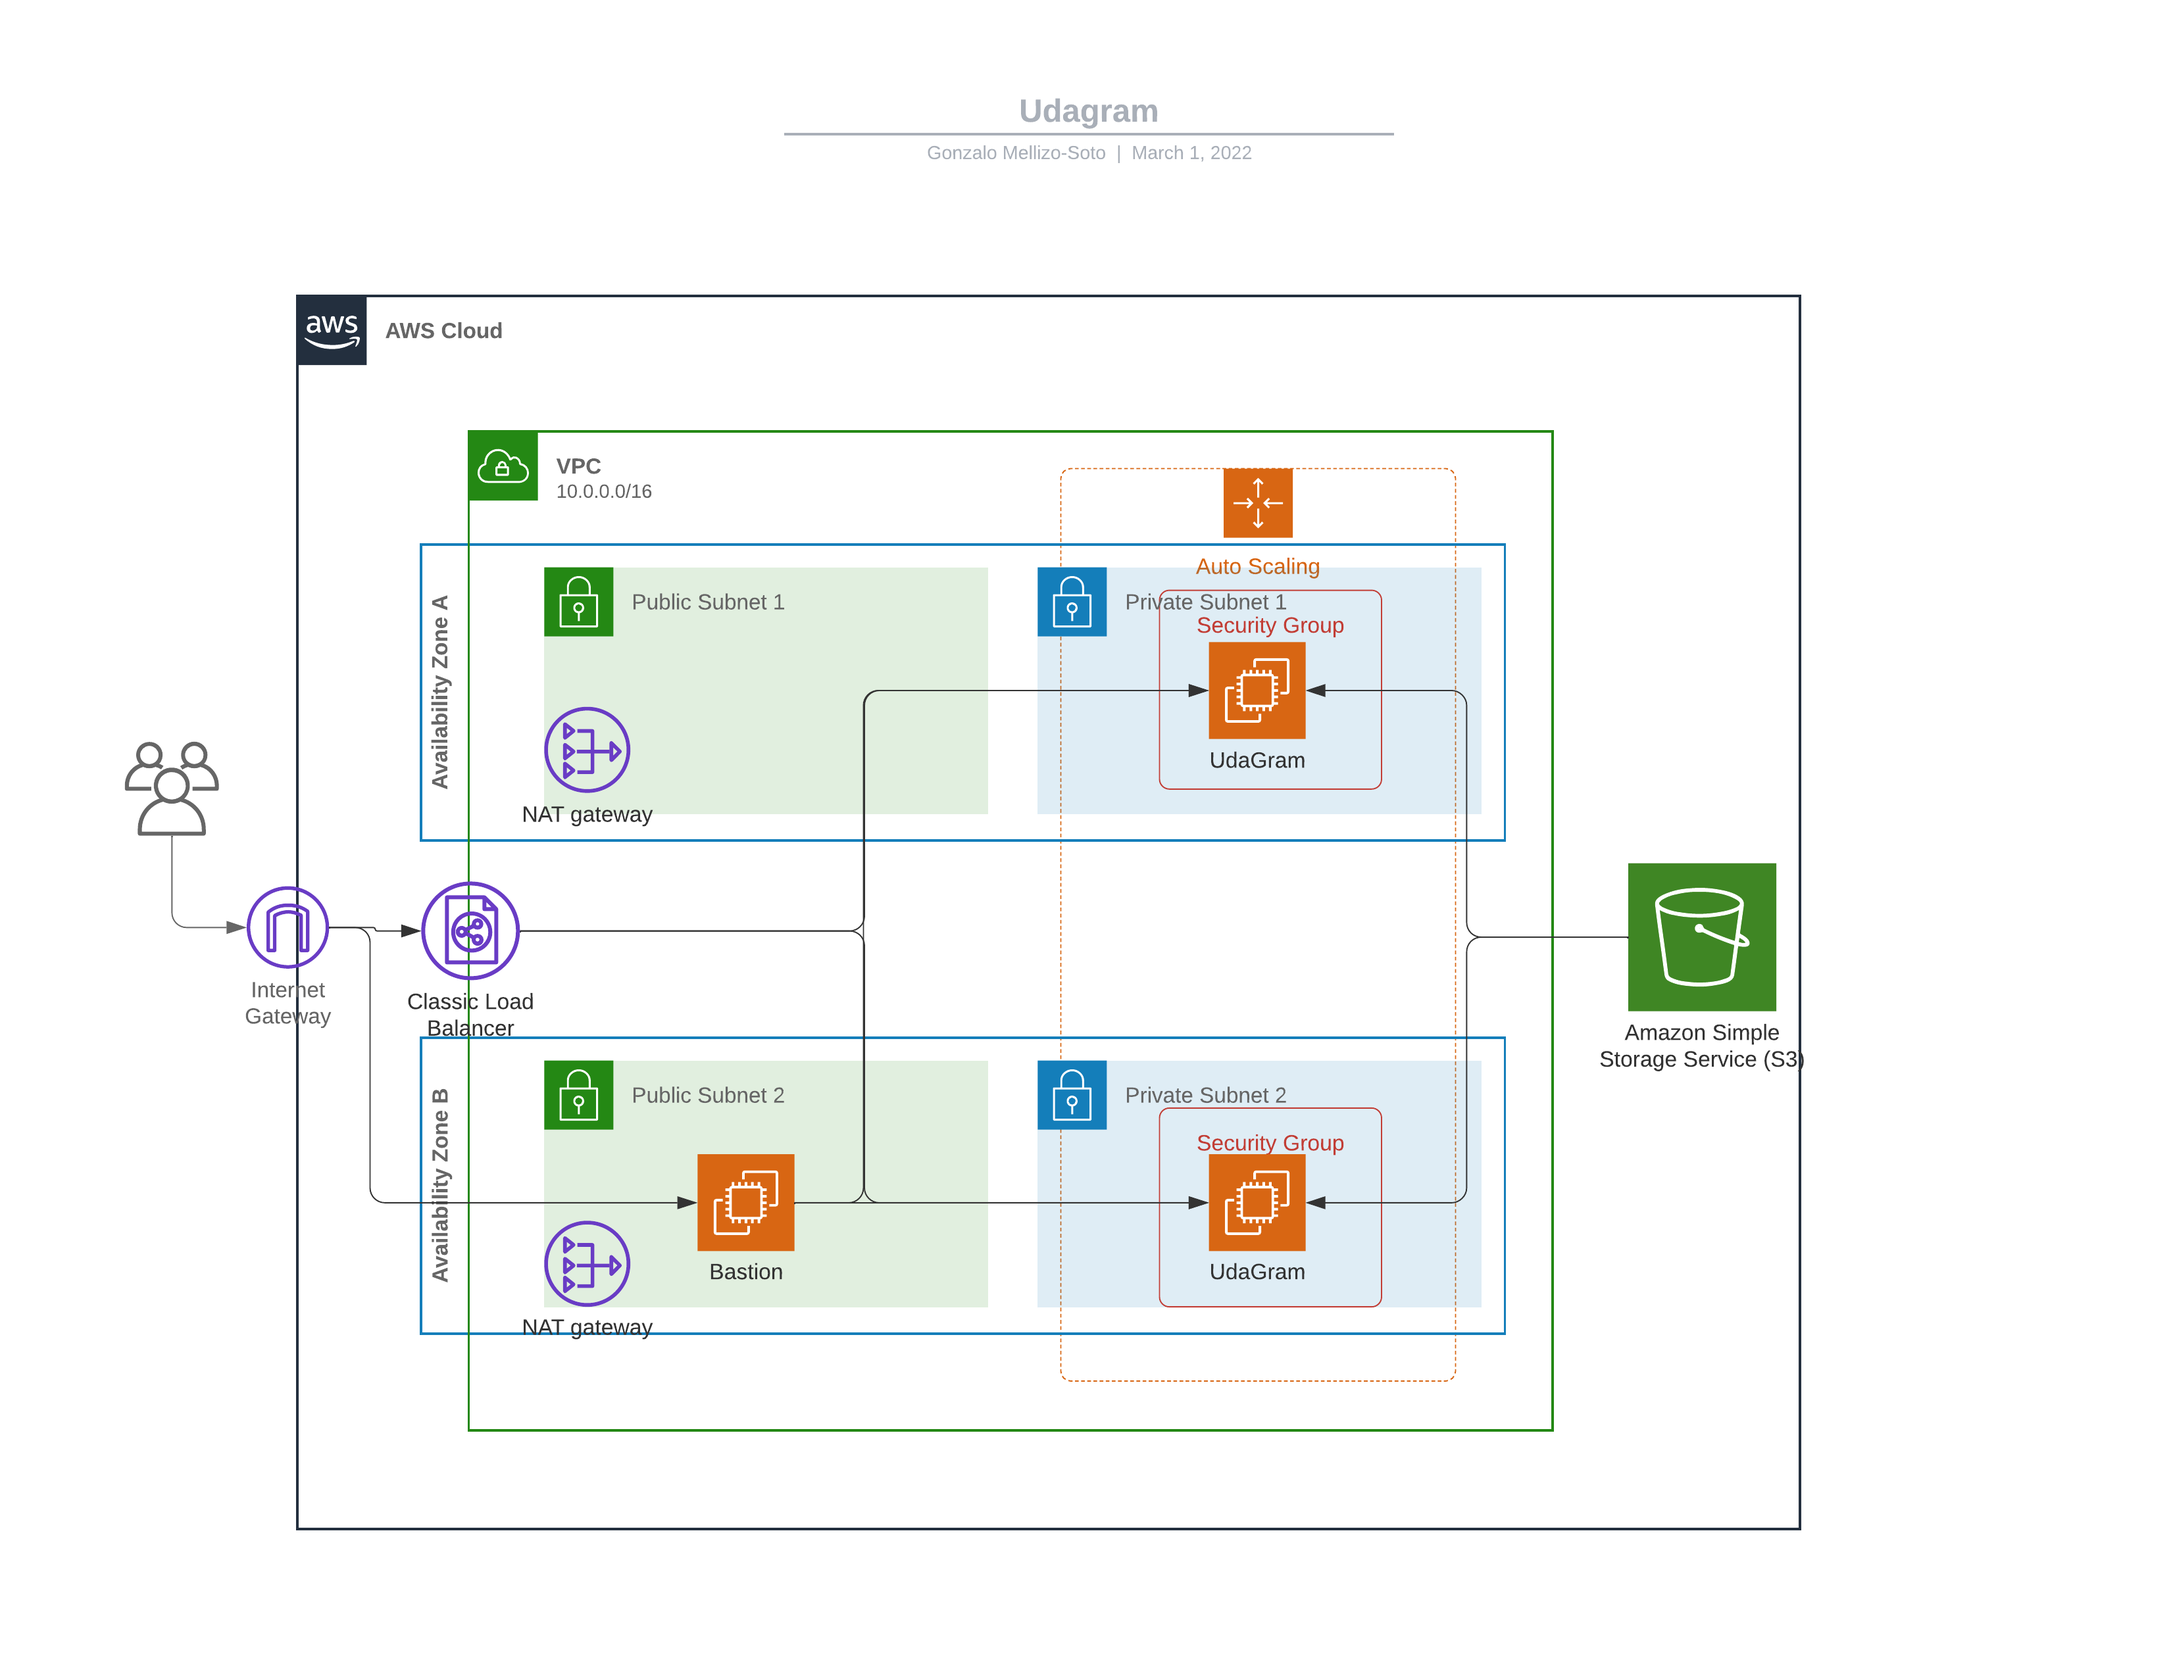
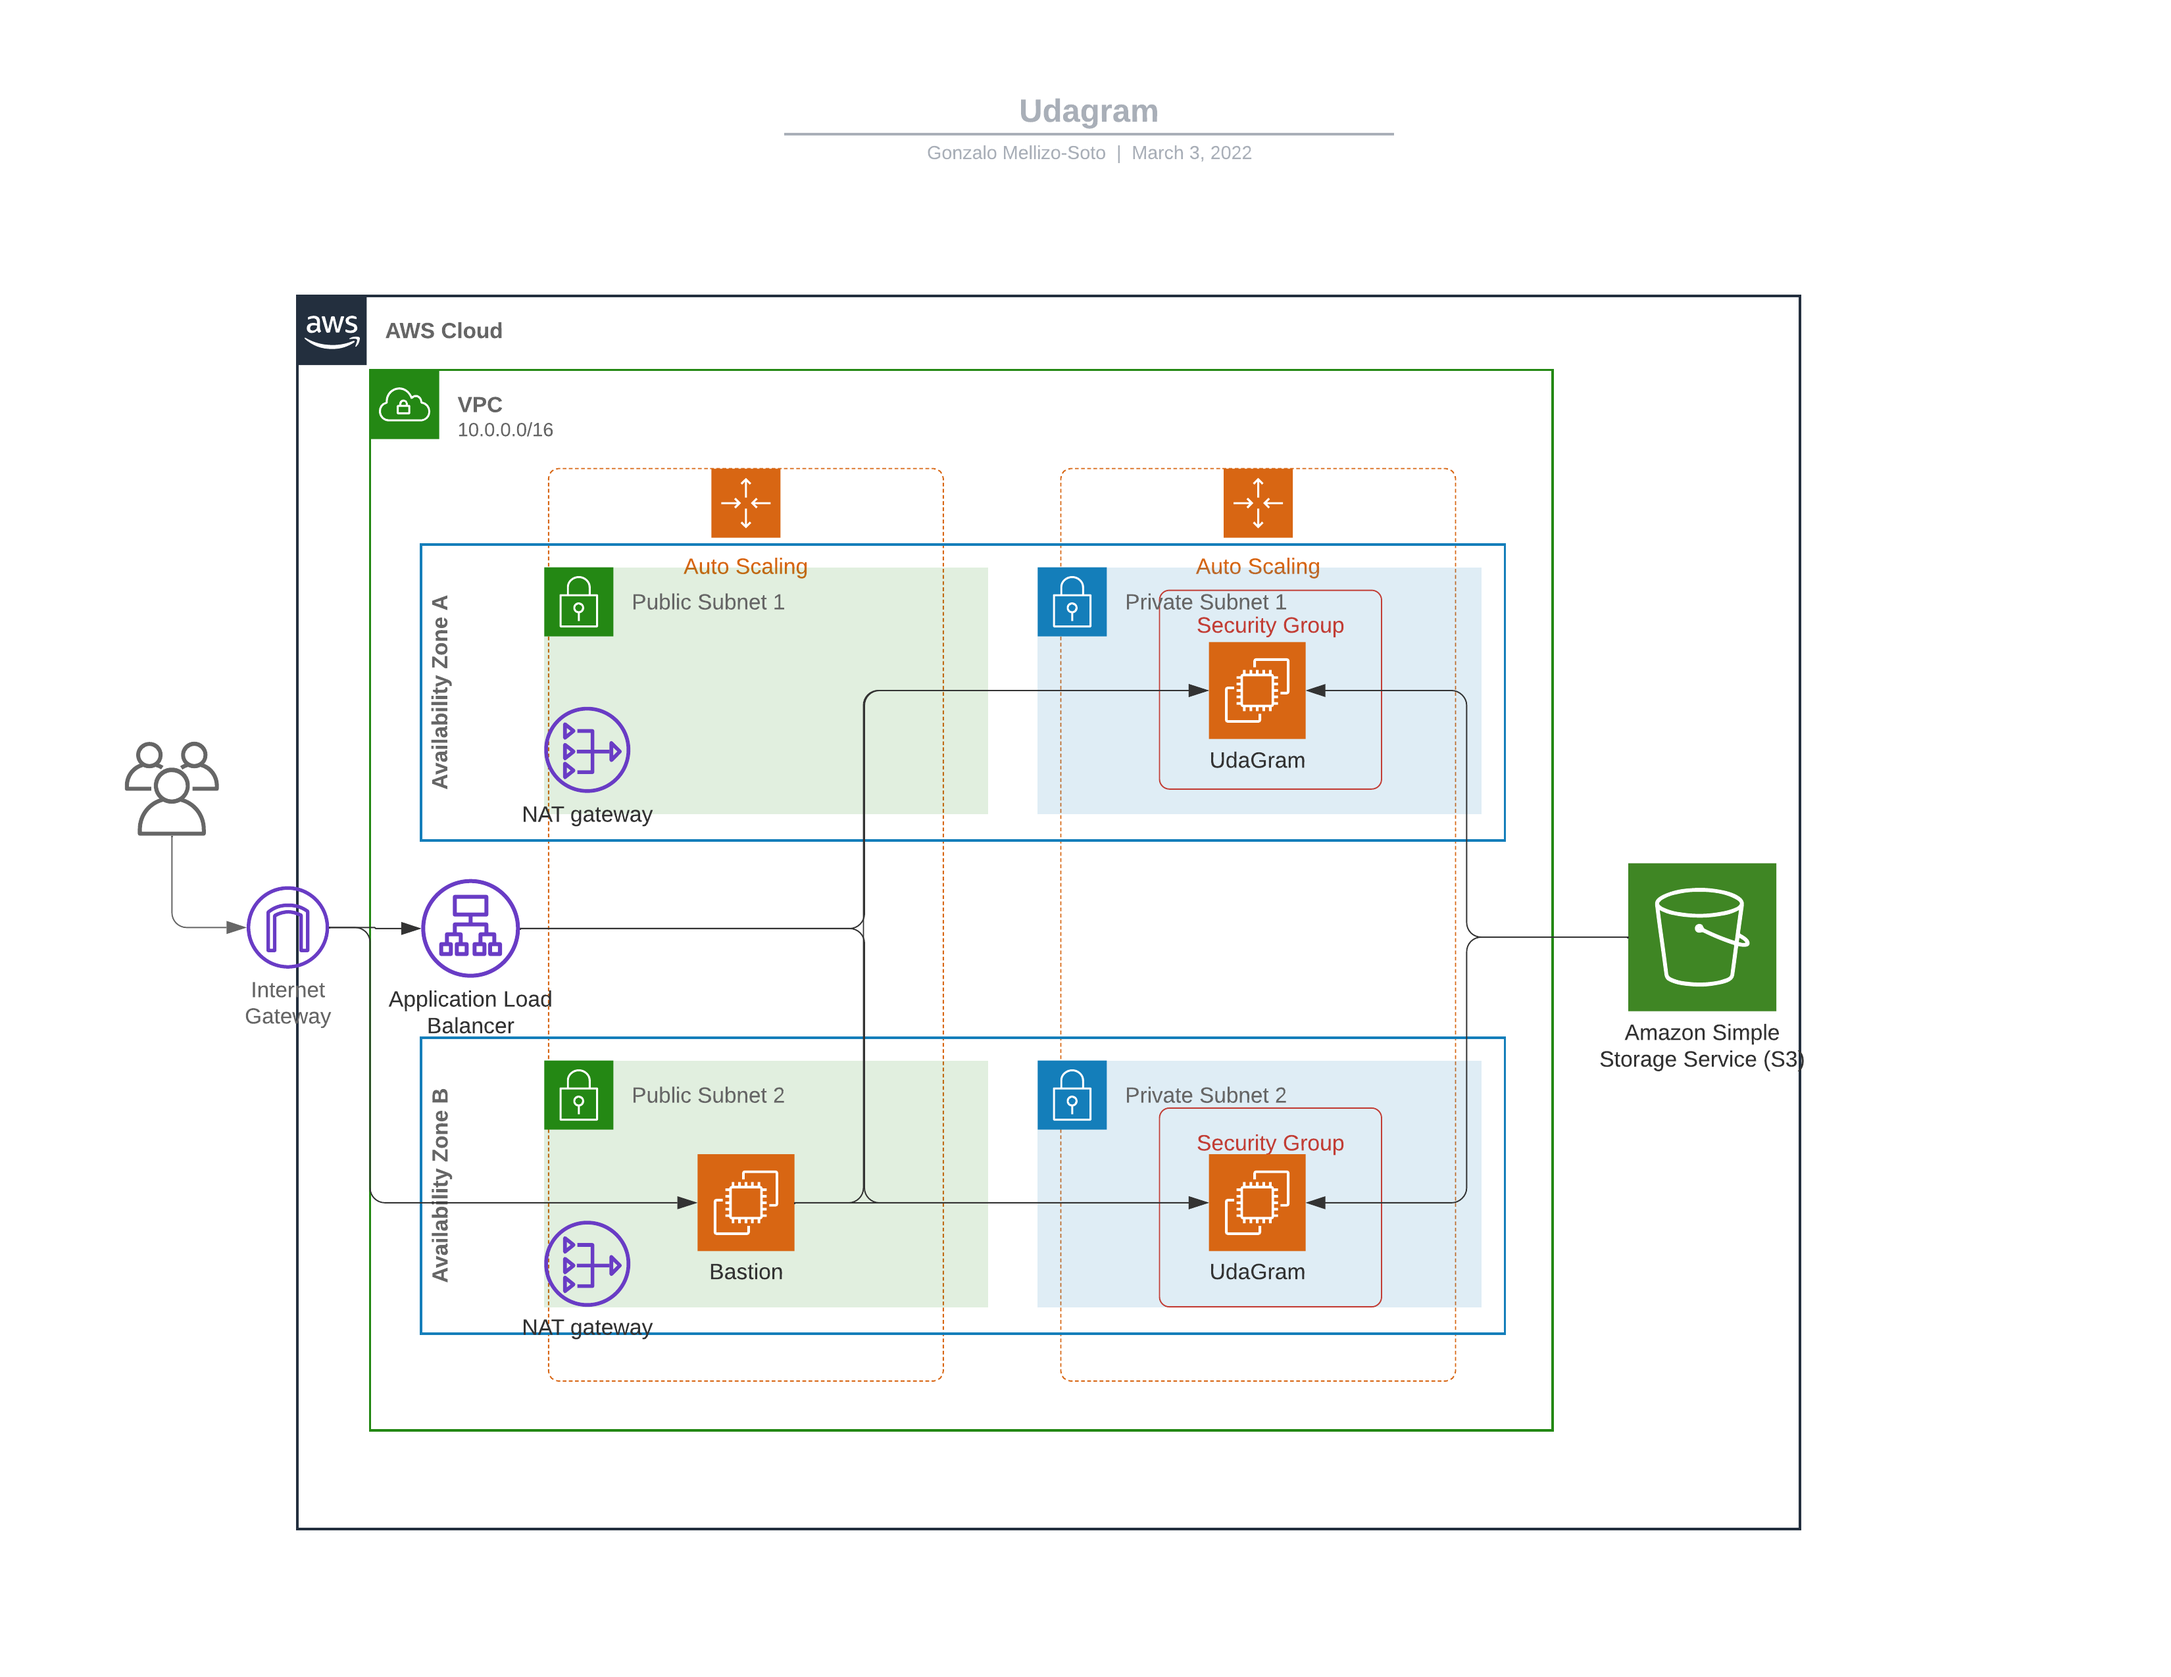
update diagram and readme

Changed region(s): [[0.1561, 0.2169, 0.2809, 0.3098], [0.1873, 0.5267, 0.2497, 0.6196], [0.3121, 0.2788, 0.3745, 0.3408]]

diff --git a/02_HA_WebApp_Using_CloudFormation/README.md b/02_HA_WebApp_Using_CloudFormation/README.md
@@ -1,7 +1,9 @@
 
-# Deploy Static Websito to AWS using S3 and CloudFront
+# Deploy a High Availability webserver in AWS
 
-This is a project regarding the first project of Udacity's Cloud DevOps Engineer Nanodegree Program.
+This is a project regarding the first project of Udacity's Cloud DevOps Engineer Nanodegree Program. The diagram used is the following:
+
+![diagram](Udagram.png)
 
 
 ## Run Locally
